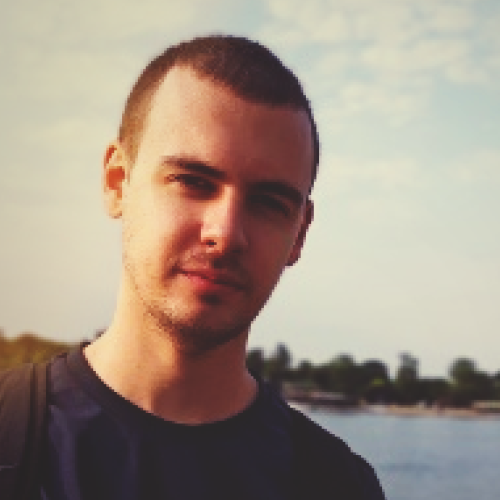
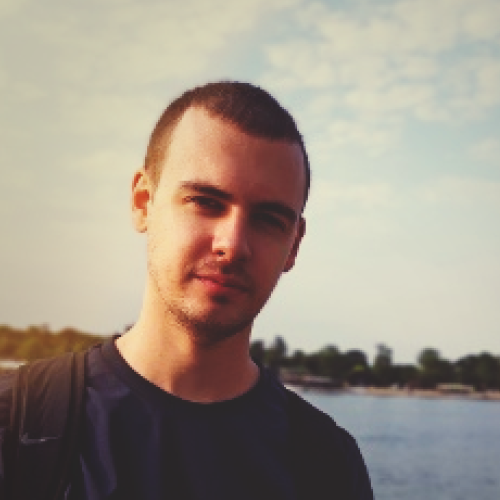
Uploaded picture changing after upload.

diff --git a/web/js/clean-blog.js b/web/js/clean-blog.js
@@ -155,11 +155,11 @@ function uploadProfilePicture() {
   xhr.onreadystatechange = function() {
     if (this.readyState == 4) {
       if(this.status == 200) {
-        alert(xhr.responseText);
+        var rspData = JSON.parse(xhr.responseText);
         $("#closePictureFormBtn").click();
         var reader = new FileReader();
         reader.onload = function (e) {
-          $("#profilePicture").attr("src", e.target.result);
+          $("#profilePicture").attr("src", rspData.picture_url);
         };
         reader.readAsDataURL(picture);
       } else {

diff --git a/src/AppBundle/Controller/ProfileController.php b/src/AppBundle/Controller/ProfileController.php
@@ -49,14 +49,15 @@ class ProfileController extends Controller
         $pictureFile = $request->files->get("profilePicture");
         $pictureData = json_decode($request->request->get('pictureData'));
 
-        $fileName = $fileUploader->uploadProfilePicture($pictureFile, $pictureData, $user->getUserId());
+        $fileName = $fileUploader->uploadProfilePicture($pictureFile, $pictureData,
+            $this->get('kernel')->getProjectDir().$this->getParameter('profile_picture_url'), $user->getUserId());
 
         $em = $this->getDoctrine()->getManager();
         $user->setProfilePicture($fileName);
         $em->persist($user);
         $em->flush();
 
-        return new JsonResponse(array('data' => $pictureData), 200);
+        return new JsonResponse(array('picture_url' => '/blogpiler'.$this->getParameter('profile_picture_url').'/'.$fileName), 200);
     }
 
 }

diff --git a/src/AppBundle/Service/FileUploader.php b/src/AppBundle/Service/FileUploader.php
@@ -14,12 +14,12 @@ class FileUploader
         $this->targetDir = $targetDir;
     }
 
-    public function uploadProfilePicture(UploadedFile $file, $pictureData, $userId)
+    public function uploadProfilePicture(UploadedFile $file, $pictureMeta, $location, $userId)
     {
         $fileName = $userId.'.'.$file->guessExtension();
 
-        $this->cropAndSave($pictureData->x, $pictureData->y, $pictureData->w, $pictureData->h, $pictureData->scale,
-            $file->getRealPath(), $this->getTargetDir() . '/' . $fileName);
+        $this->cropAndSave($pictureMeta->x, $pictureMeta->y, $pictureMeta->w, $pictureMeta->h, $pictureMeta->scale,
+            $file->getRealPath(), realpath($location . '/' . $fileName));
 
         return $fileName;
     }
